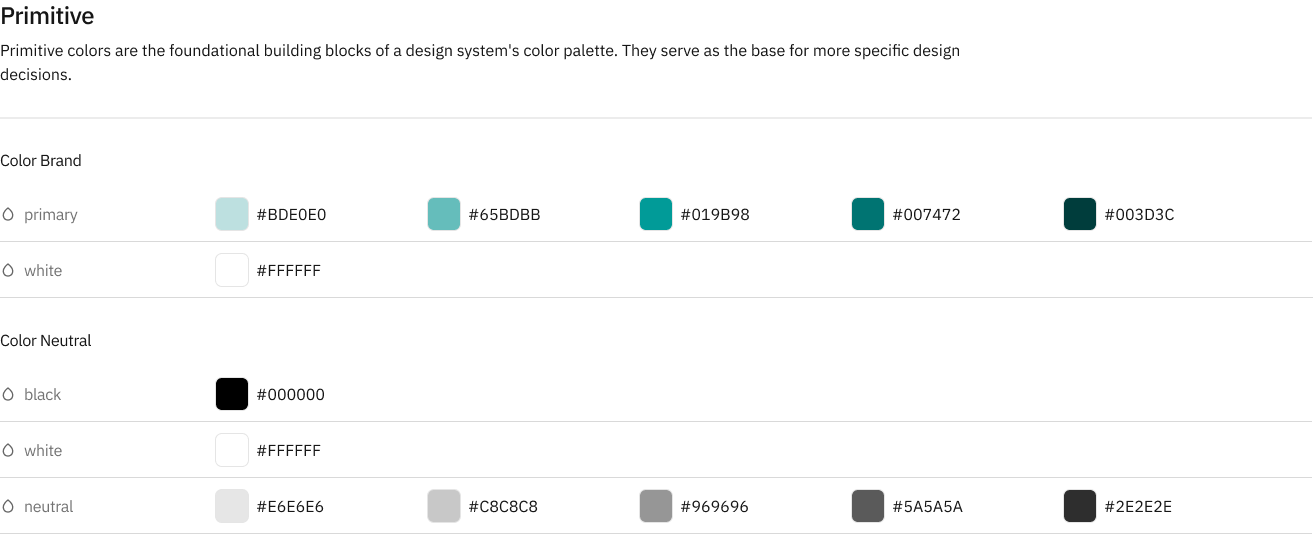
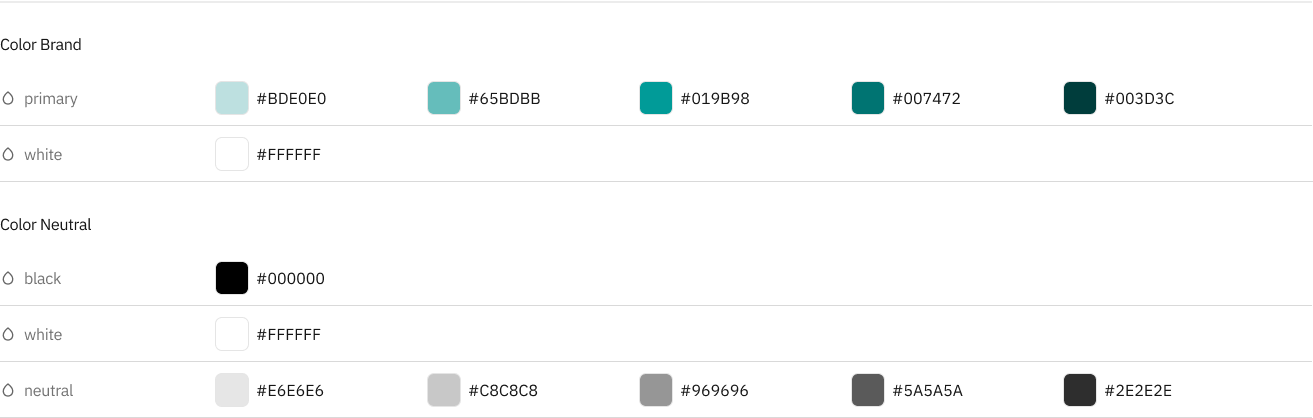
spacing updates

diff --git a/app/refera-trade/page.tsx b/app/refera-trade/page.tsx
@@ -4,7 +4,7 @@ import Footer from "@/components/Footer";
 
 const agency = () => {
   return (
-    <div className='flex flex-col gap-[80px] px-[16px] items-center w-full'>
+    <div className='flex flex-col gap-[128px] px-[16px] items-center w-full'>
       <div className='flex max-w-[1200px] w-full gap-[64px] pt-[64px] justify-between items-start'>
         <div className='flex flex-col max-w-[280px] gap-[32px]'>
           <div className='flex flex-col gap-[12px]'>
@@ -180,6 +180,10 @@ const agency = () => {
 
       <div className='flex flex-col gap-[40px] max-w-[880px] w-full'> {/* ideation */}
         <div className='flex flex-col gap-[16px]'>
+        <div className="flex w-[880px] p-6 justify-center items-center gap-2 rounded-xl border border-gray-300 ibm-plex-mono-regular-italic">
+          For the purpose of presenting a summary of this project, only the &apos;Card&apos; 
+          component will be explored in this section of the case study.
+        </div>
           <span
             className="ibm-plex-mono-medium text-orange text-[18px] leading-[24px]">
             Ideation

diff --git a/app/play/page.tsx b/app/play/page.tsx
@@ -6,7 +6,7 @@ import { GoArrowUpRight } from 'react-icons/go'
 const Hero = () => {
   return (
     <div id='hero'>
-        <div className="max-w-[880px] sm:mx-auto mx-[16px] pt-[64px] gap-[80px] w-full flex flex-col justify-start">
+        <div className="max-w-[880px] sm:mx-auto mx-[16px] pt-[64px] gap-[128px] w-full flex flex-col justify-start">
 
             <div className='flex flex-col gap-[24px]'> {/* hackathons */}
                 <h1 className="ibm-plex-mono-medium sm:tracking-[-2px] text-gray-900 sm:text-[56px] text-[40px]">

diff --git a/app/indx-agency/page.tsx b/app/indx-agency/page.tsx
@@ -4,7 +4,7 @@ import Footer from "@/components/Footer";
 
 const agency = () => {
   return (
-    <div className='flex flex-col gap-[80px] px-[16px] items-center w-full'>
+    <div className='flex flex-col gap-[128px] px-[16px] items-center w-full'>
       <div className='flex max-w-[1200px] w-full gap-[64px] pt-[64px] justify-between items-start'>
         <div className='flex flex-col max-w-[280px] gap-[32px]'>
           <div className='flex flex-col gap-[12px]'>
